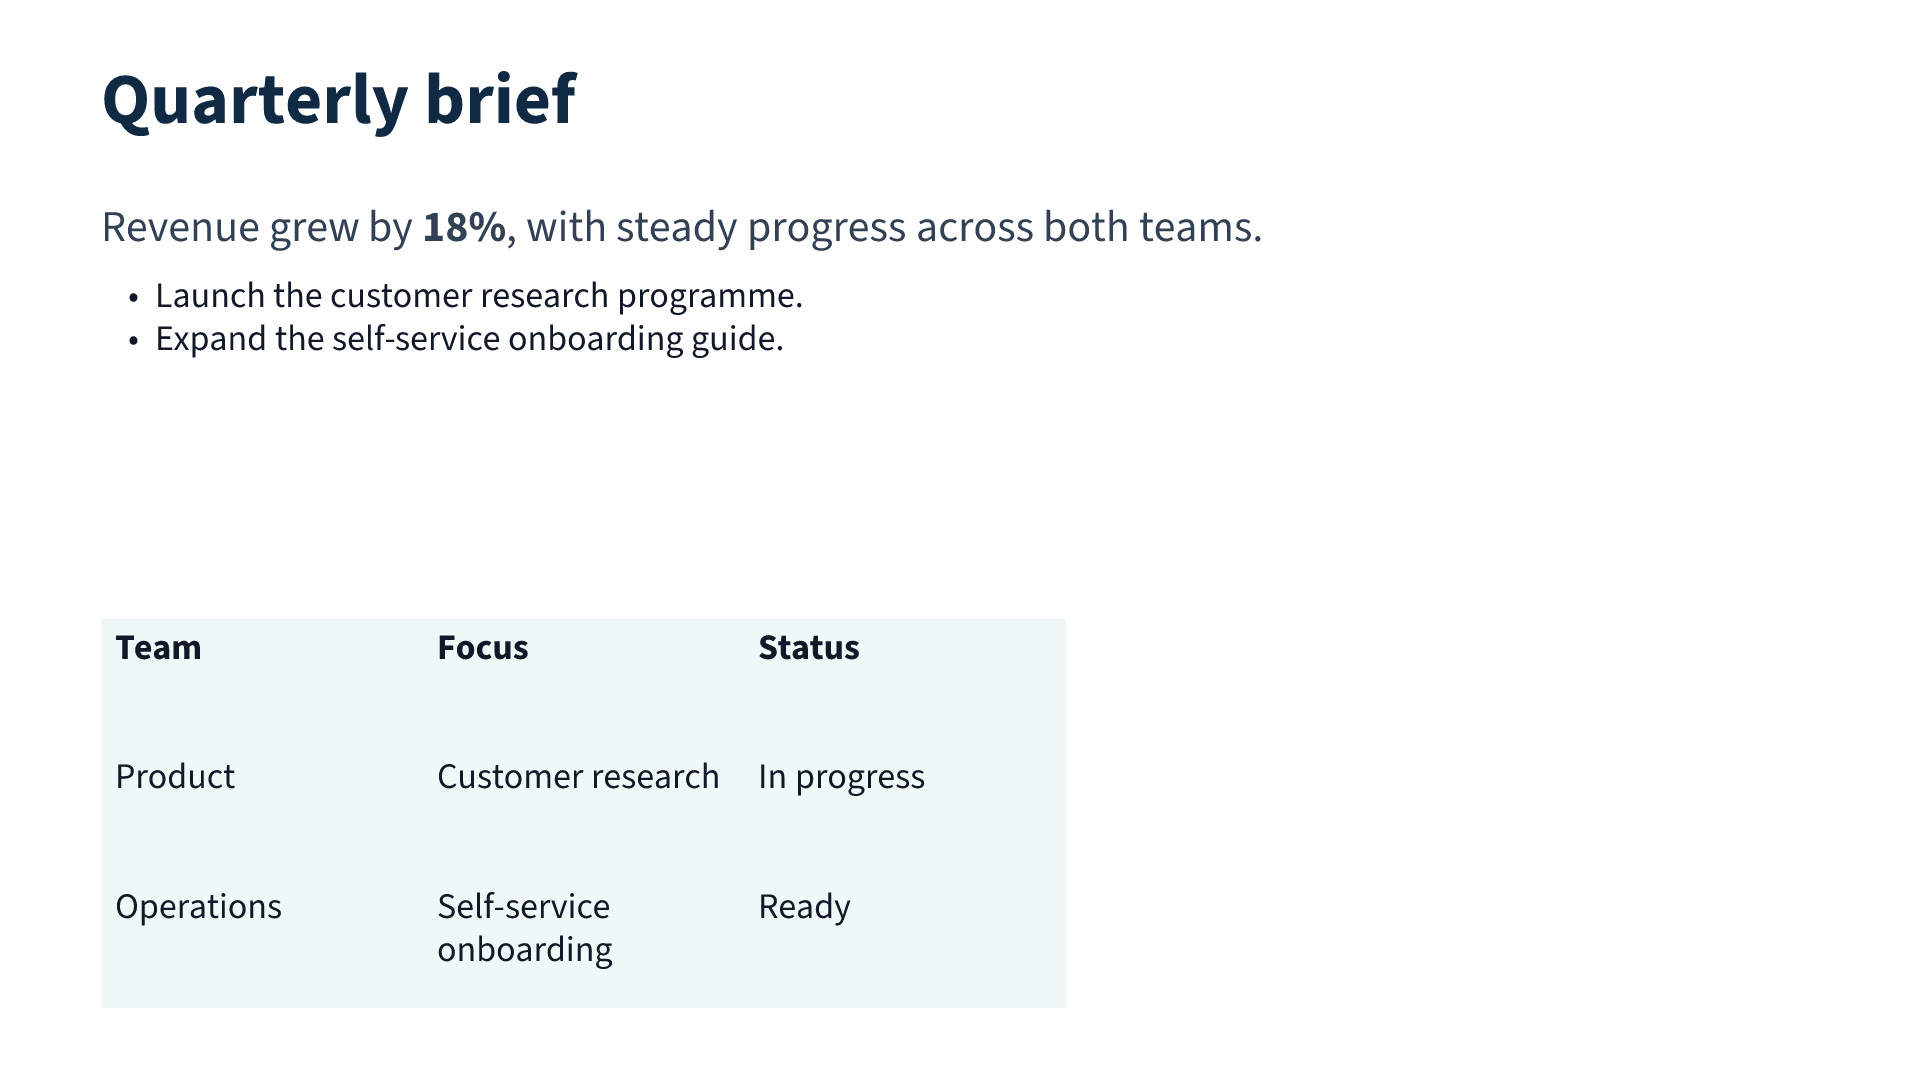
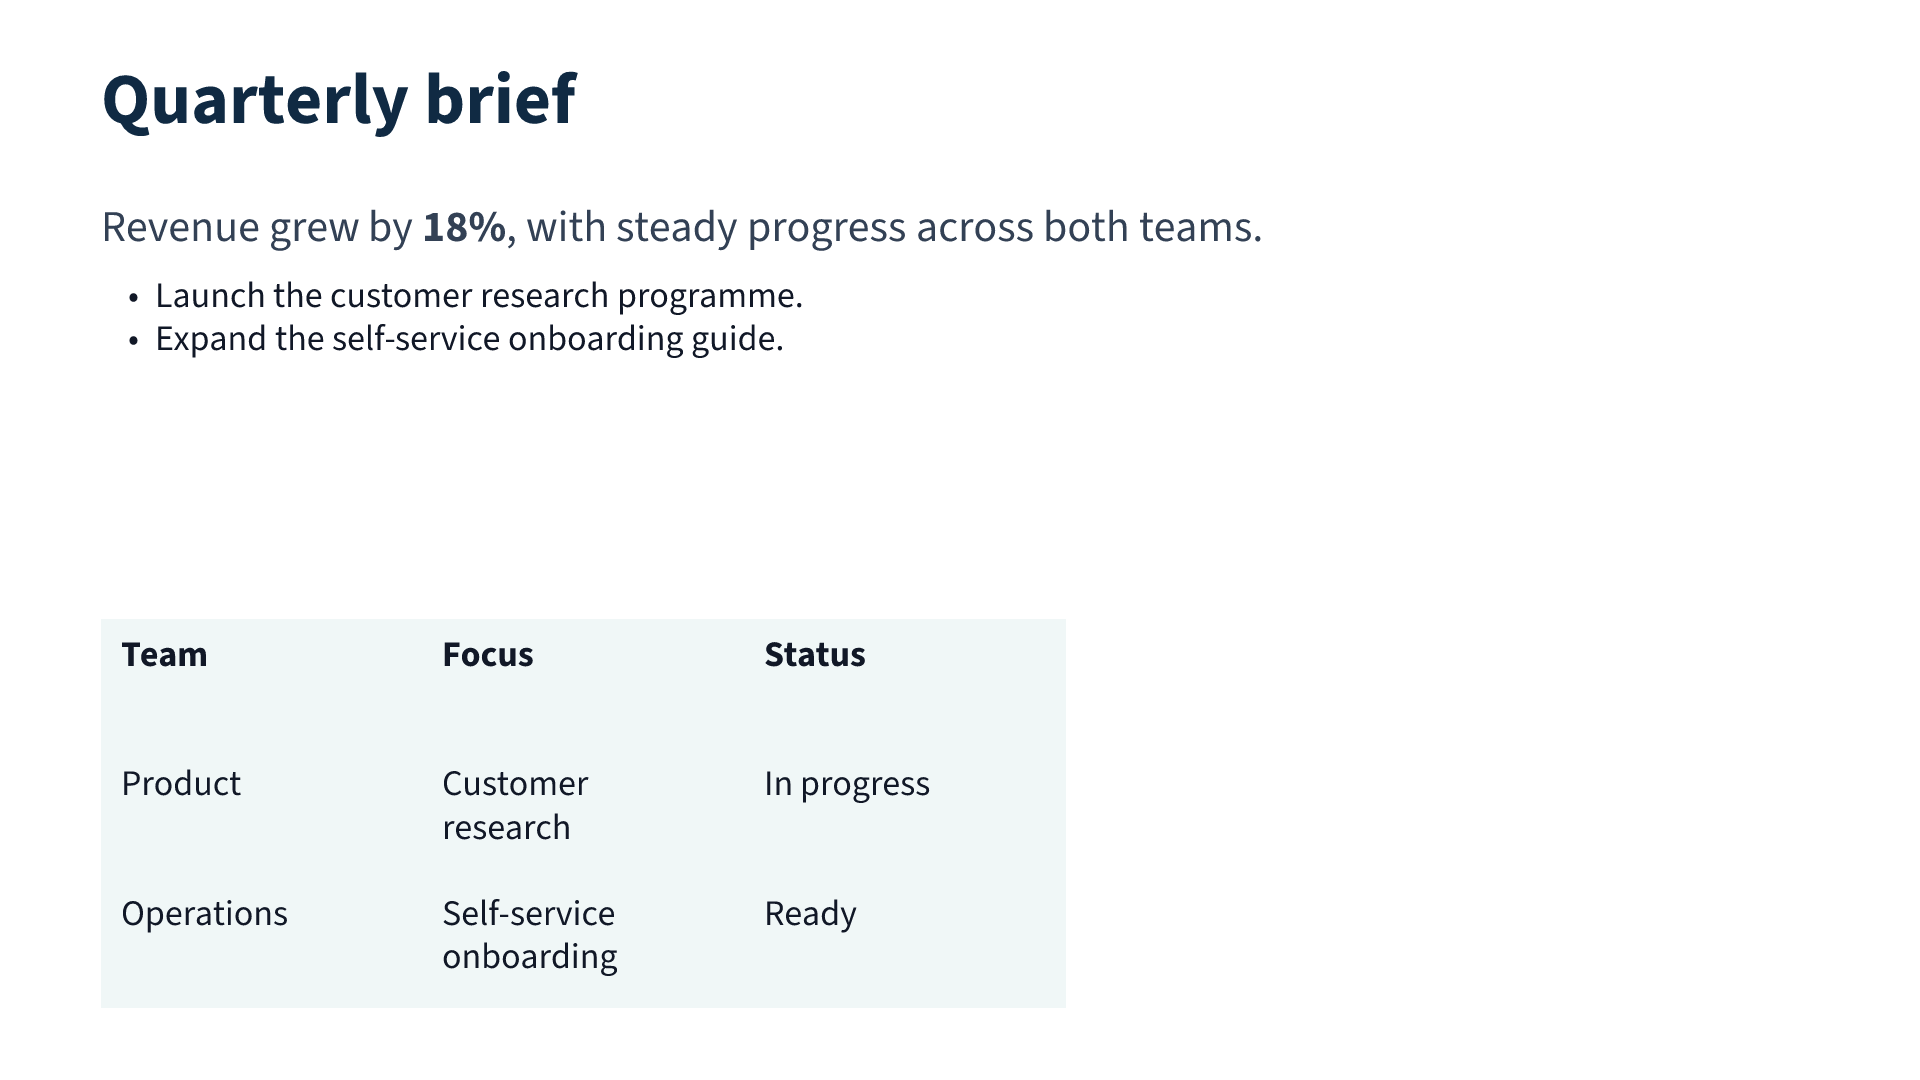
- distinguish document and presentation previews

diff --git a/README.md b/README.md
@@ -64,7 +64,13 @@ compact page size. To apply it, concatenate it with the original Markdown at
 render time; the original file remains unchanged. No special defaults CLI option
 is required.
 
+Document layout:
+
 ![Native document preview of the unchanged Markdown with typography and table defaults.](docs/images/readme/defaults-1.png)
+
+Presentation layout, using the slide typography defaults:
+
+![Native slide preview of the same Markdown, with text above a three-column table.](docs/images/readme/defaults-slides-1.png)
 
 [Defaults source](examples/readme/defaults.mote) ·
 [Unchanged Markdown](examples/readme/plain.md) ·
@@ -191,7 +197,17 @@ Monthly revenue, in thousands.
 )
 ```
 
-![Native chart preview showing monthly online and retail revenue.](docs/images/readme/chart-1.png)
+Document layout:
+
+![Native document chart preview showing monthly online and retail revenue.](docs/images/readme/chart-1.png)
+
+Presentation layout:
+
+![Native slide chart preview showing the text and chart in separate automatic layout frames.](docs/images/readme/chart-slides-1.png)
+
+Automatic slide layout gives the text and chart equal-height content frames,
+so this slide has more space between them than the document. Positioned boxes,
+introduced above, provide explicit control over those frames.
 
 [Complete chart source](examples/readme/chart.mote) ·
 [Word download](docs/examples/readme/chart.docx) ·
